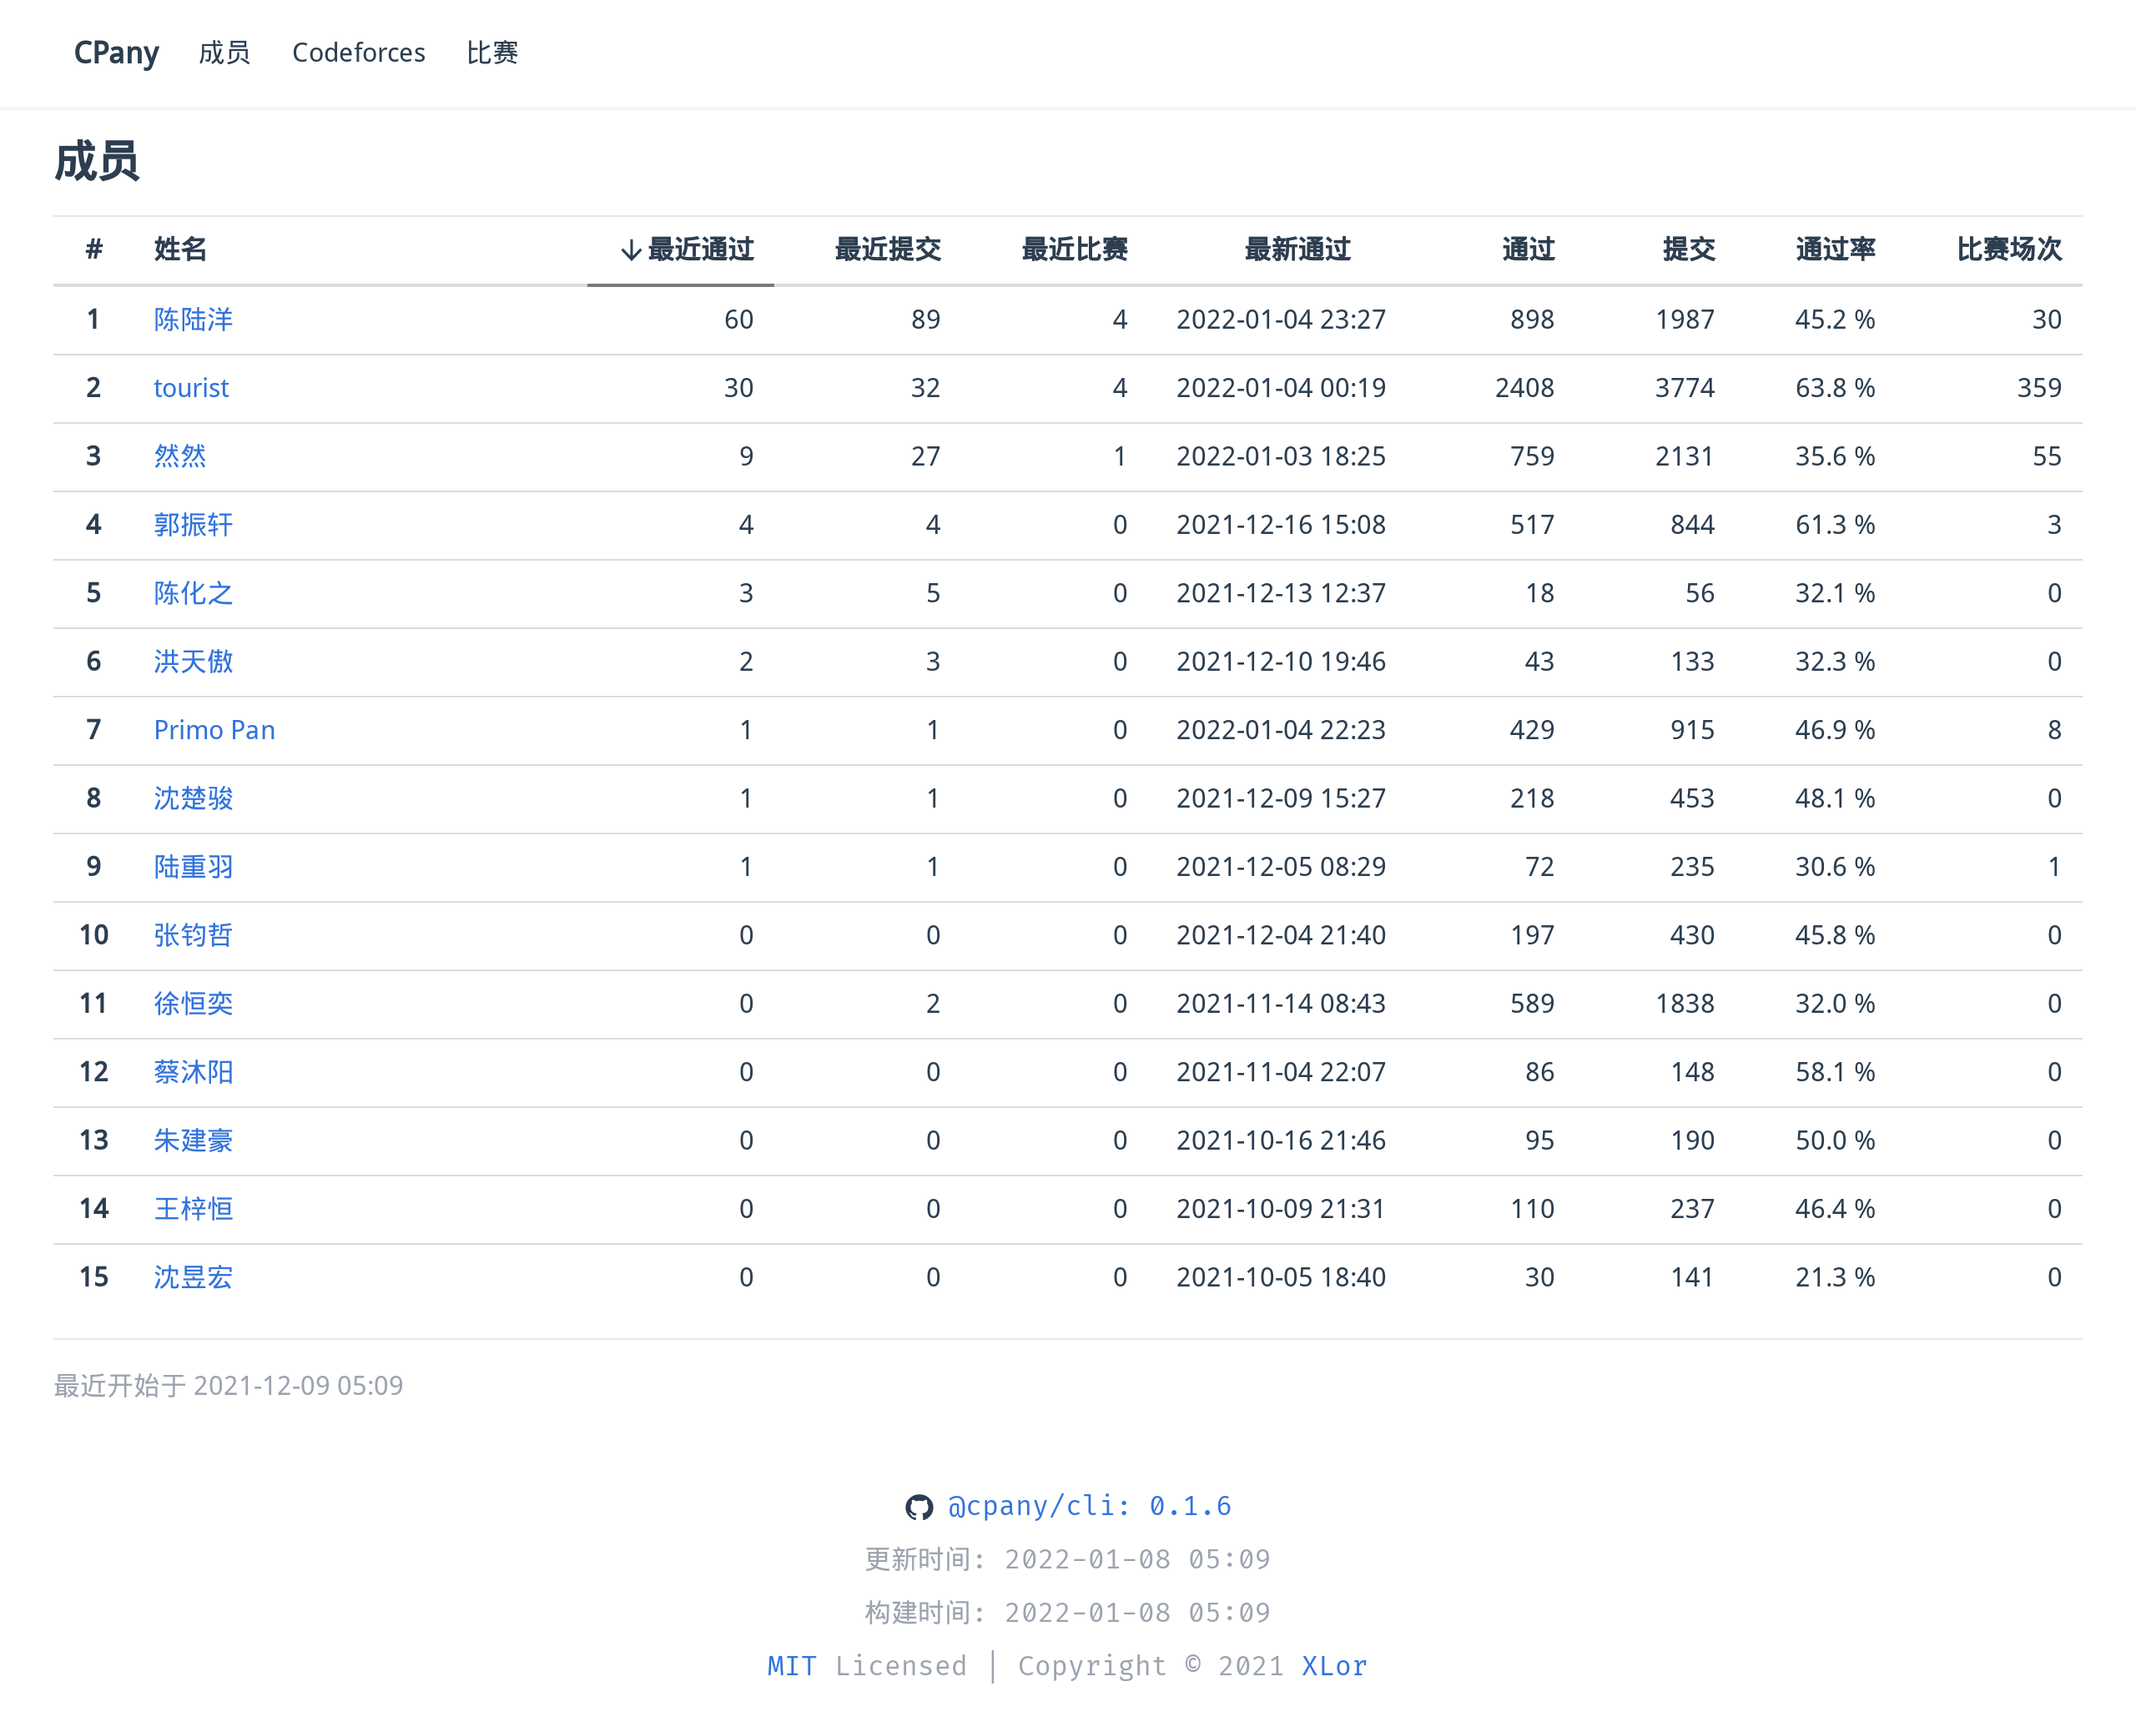
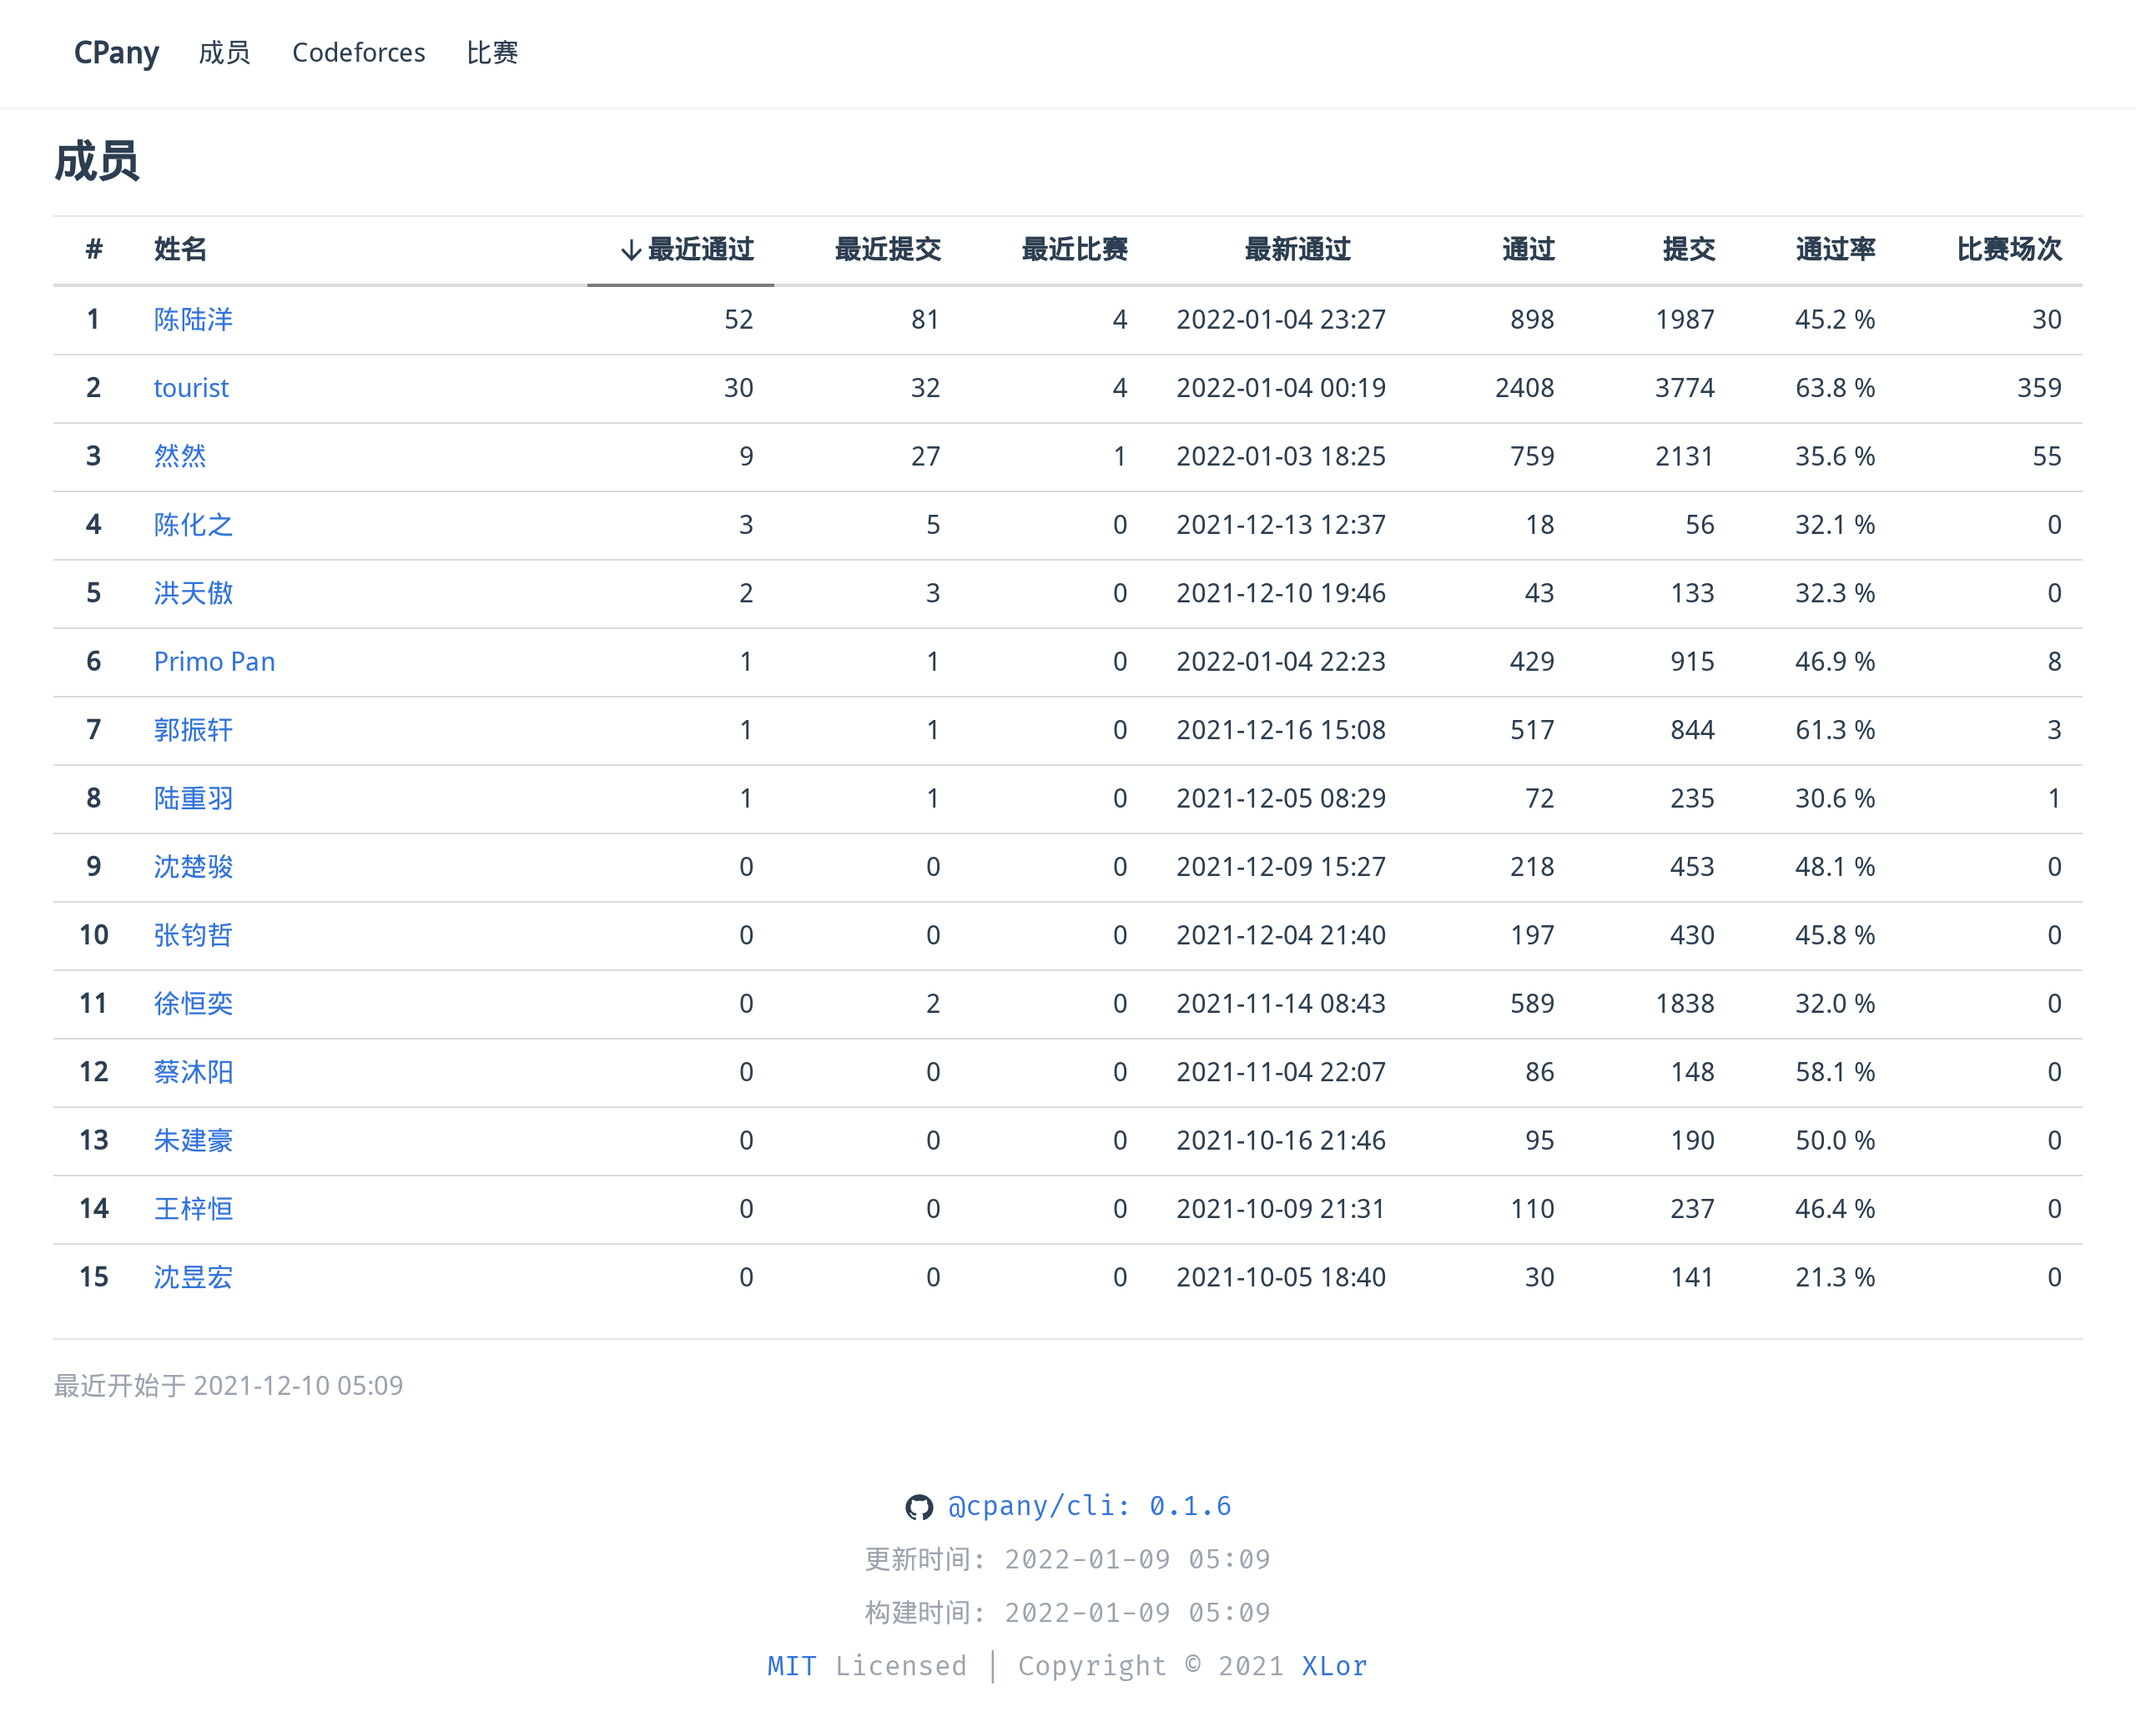
Fetch data on 2022-01-09 05:09

diff --git a/README.md b/README.md
@@ -3,7 +3,7 @@
 [![version](https://img.shields.io/npm/v/@cpany/cli?color=rgb%2850%2C203%2C86%29&label=CPany)](https://www.npmjs.com/package/@cpany/cli)
 
 <!-- START_SECTION: update_time -->
-更新时间：[2022-01-08 05:09](https://www.timeanddate.com/worldclock/fixedtime.html?msg=Fetch+data&iso=202201081641589752000050912&p1=237)
+更新时间：[2022-01-09 05:09](https://www.timeanddate.com/worldclock/fixedtime.html?msg=Fetch+data&iso=202201091641676153000050913&p1=237)
 <!-- END_SECTION: update_time -->
 
 ![members](./screenshot.png)
